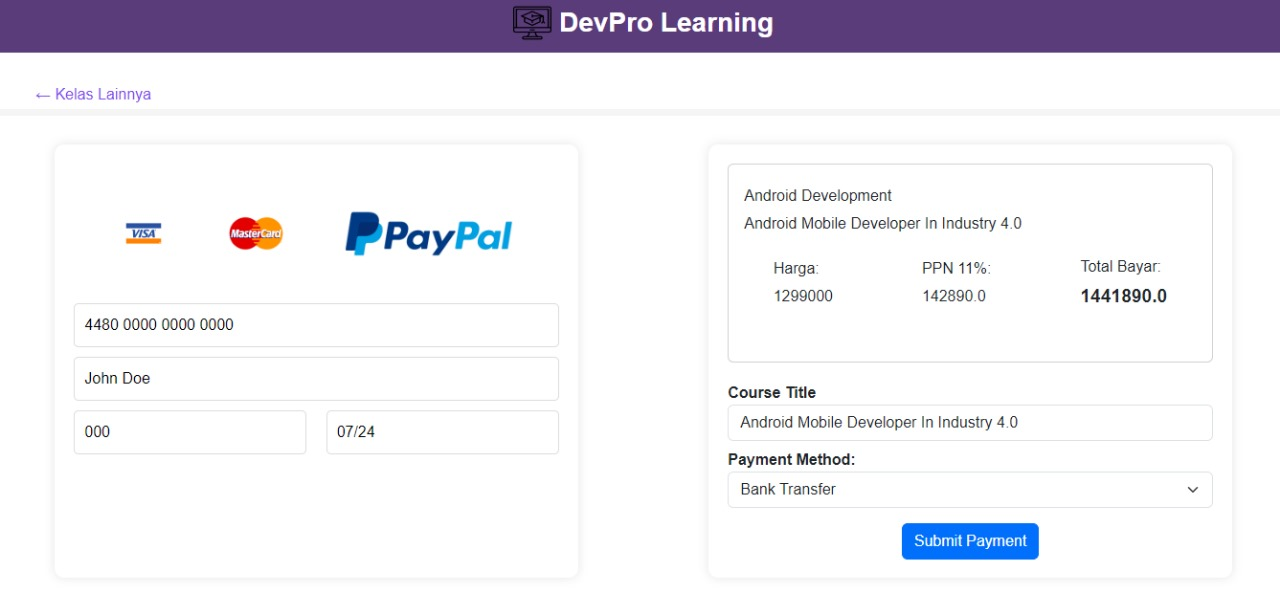
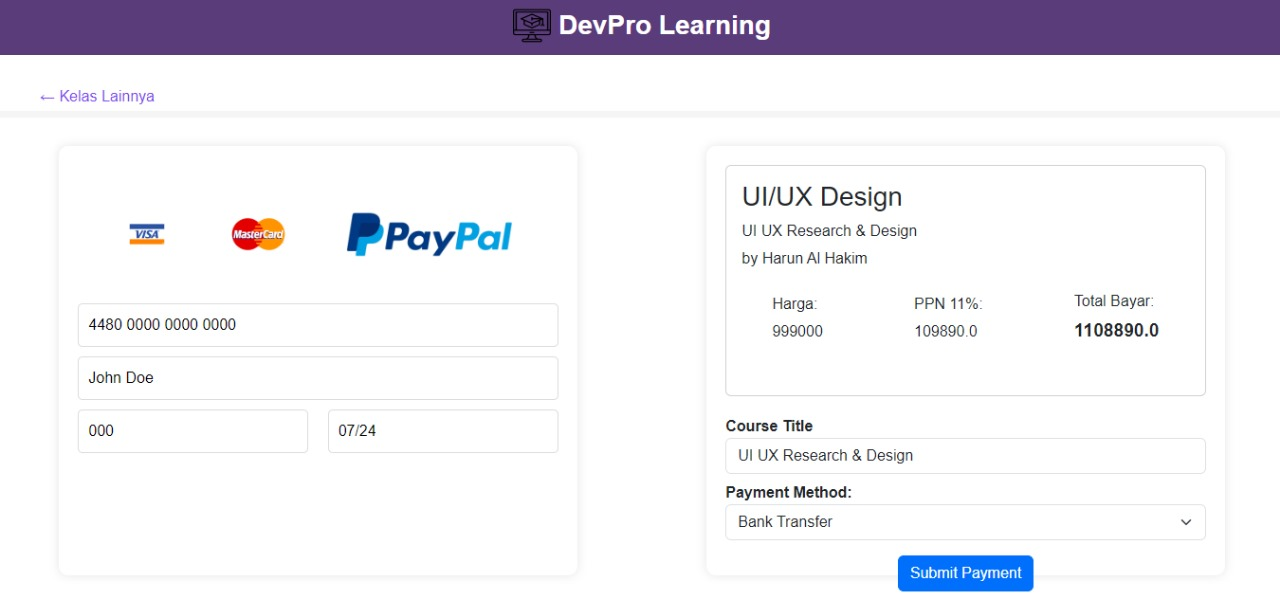
Add forgot password

diff --git a/clientapp/src/main/resources/static/js/forgot-password.js b/clientapp/src/main/resources/static/js/forgot-password.js
@@ -1,0 +1,86 @@
+// Forgot Password
+$("#forgot-password").click(function (e) {
+	e.preventDefault();
+
+	let valueUsername = $("#username").val();
+	let valueNewPassword = $("#new-password").val();
+	let valueRepeatNewPassword = $("#repeat-new-password").val();
+
+	let validatePassword = validationsPassword(
+		valueNewPassword,
+		valueRepeatNewPassword
+	);
+	if (validatePassword !== "LFG!") {
+		Swal.fire({
+			position: "center",
+			icon: "error",
+			title: validatePassword,
+			showConfirmButton: false,
+			timer: 1500,
+		});
+	} else {
+		$.ajax({
+			type: "POST",
+			contentType: "application/json",
+			beforeSend: addCSRFToken(),
+			dataType: "JSON",
+			url: "http://localhost:8080/api/auth/forgot-password",
+			data: JSON.stringify({
+				username: valueUsername,
+				newPassword: valueNewPassword,
+				repeatNewPassword: valueRepeatNewPassword,
+			}),
+			success: function (response) {
+				Swal.fire({
+					position: "center",
+					icon: "success",
+					title: "Reset Password Successful!",
+					html: '<a href="/auth/login"><b>Log in here!</b></a>',
+					showConfirmButton: false,
+				});
+				$("#username").val("");
+				$("#new-password").val("");
+				$("#repeat-new-password").val("");
+			},
+			error: function (error) {
+				console.log(error);
+				Swal.fire({
+					position: "center",
+					icon: "error",
+					title: "Reset Password Failed!",
+					showConfirmButton: false,
+					timer: 1500,
+				});
+			},
+		});
+	}
+});
+
+// Validation Password
+function validationsPassword(newPassword, repeatNewPassword) {
+	if (newPassword === "" || repeatNewPassword === "") {
+		return "Password Must Not Blank!";
+	} else if (newPassword !== repeatNewPassword) {
+		return "The Passwords Do Not Match!";
+	} else {
+		return "LFG!";
+	}
+}
+
+function showNewPassword() {
+	let showPW = document.getElementById("new-password");
+	if (showPW.type === "password") {
+		showPW.type = "text";
+	} else {
+		showPW.type = "password";
+	}
+}
+
+function showRepeatNewPassword() {
+	let showPW = document.getElementById("repeat-new-password");
+	if (showPW.type === "password") {
+		showPW.type = "text";
+	} else {
+		showPW.type = "password";
+	}
+}

diff --git a/clientapp/src/main/resources/templates/pages/auth/forgot-password.html b/clientapp/src/main/resources/templates/pages/auth/forgot-password.html
@@ -1,0 +1,77 @@
+<!DOCTYPE html>
+<html
+	xmlns:layout="http://www.ultraq.net.nz/thymeleaf/layout"
+	layout:decorate="~{layout/auth}">
+	<head>
+		<meta charset="UTF-8" />
+		<meta name="viewport" content="width=device-width, initial-scale=1.0" />
+		<title>Forgot Password Page</title>
+	</head>
+	<body>
+		<div class="container" layout:fragment="content">
+			<div class="form-container">
+				<h2>Forgot Password</h2>
+				<form>
+					<label for="username">Username</label>
+					<input
+						type="text"
+						id="username"
+						name="username"
+						placeholder="Enter your username"
+						required />
+
+					<label for="new-password">New Password</label>
+					<input
+						type="password"
+						id="new-password"
+						name="new-password"
+						placeholder="Enter your new password"
+						required />
+
+					<div>
+						<input
+							class="mt-2 mb-2"
+							type="checkbox"
+							onclick="showNewPassword()" />
+						Show Password
+					</div>
+
+					<label for="repeat-new-password">Repeat New Password</label>
+					<input
+						type="password"
+						id="repeat-new-password"
+						name="repeat-new-password"
+						placeholder="Re-enter your new password"
+						required />
+
+					<div>
+						<input
+							class="mt-2 mb-2"
+							type="checkbox"
+							onclick="showRepeatNewPassword()" />
+						Show Password
+					</div>
+
+					<button type="button" id="forgot-password">Submit</button>
+				</form>
+				<p>
+					Remember your password? <a th:href="@{/auth/login}">Log in here!</a>
+				</p>
+			</div>
+			<div class="logo-container">
+				<img
+					class="d-inline-block align-text-top me-2"
+					th:src="@{/img/online-course.png}"
+					alt="Logo"
+					width="70"
+					height="70" />
+				<h1>DevPro Learning</h1>
+			</div>
+		</div>
+
+		<!-- JS -->
+		<div layout:fragment="script">
+			<script src="/js/forgot-password.js"></script>
+		</div>
+	</body>
+</html>

diff --git a/clientapp/src/main/resources/templates/pages/user/payment-page.html b/clientapp/src/main/resources/templates/pages/user/payment-page.html
@@ -80,10 +80,11 @@
 				<div class="payment-summary">
 					<div class="card category-card">
 						<div class="card-body">
-							<p>
+							<h3>
 								<span th:text="${order.category}"></span>
-							</p>
+							</h3>
 							<p><span th:text="${order.title}"></span></p>
+							<p><span th:text="'by ' + ${order.mentor}"></span></p>
 						</div>
 						<div class="subtotal">
 							<div class="total-detail">

diff --git a/clientapp/src/main/resources/templates/pages/auth/login.html b/clientapp/src/main/resources/templates/pages/auth/login.html
@@ -38,7 +38,9 @@
 						Show Password
 					</div>
 					<button type="submit">Log in</button>
-					<a href="#" class="forgot-password mt-2">Forgot Password?</a>
+					<a th:href="@{/auth/forgot-password}" class="forgot-password mt-2"
+						>Forgot Password?</a
+					>
 					<p class="register">
 						Don't have an account?
 						<a th:href="@{/auth/registration}">Sign up here!</a>

diff --git a/serverapp/src/main/java/org/metrodataacademy/finalproject/serverapp/services/impls/AuthServiceImpl.java b/serverapp/src/main/java/org/metrodataacademy/finalproject/serverapp/services/impls/AuthServiceImpl.java
@@ -1,10 +1,12 @@
 package org.metrodataacademy.finalproject.serverapp.services.impls;
 
 import lombok.extern.slf4j.Slf4j;
+import org.metrodataacademy.finalproject.serverapp.models.dtos.requests.ForgotPasswordRequest;
 import org.metrodataacademy.finalproject.serverapp.models.dtos.requests.LoginRequest;
 import org.metrodataacademy.finalproject.serverapp.models.dtos.requests.RegistrationRequest;
 import org.metrodataacademy.finalproject.serverapp.models.dtos.responses.LoginResponse;
 import org.metrodataacademy.finalproject.serverapp.models.dtos.responses.RegistrationResponse;
+import org.metrodataacademy.finalproject.serverapp.models.dtos.responses.UserResponse;
 import org.metrodataacademy.finalproject.serverapp.models.entities.Role;
 import org.metrodataacademy.finalproject.serverapp.models.entities.User;
 import org.metrodataacademy.finalproject.serverapp.repositories.RoleRepository;
@@ -112,6 +114,38 @@ public class AuthServiceImpl implements AuthService {
                     .email(users.getEmail())
                     .phone(users.getPhone())
                     .username(users.getUsername())
+                    .build();
+        } catch (Exception e) {
+            System.out.println("Error: " + e.getMessage());
+            throw e;
+        }
+    }
+
+    @Override
+    public UserResponse forgotPassword(ForgotPasswordRequest forgotPasswordRequest) {
+        try {
+            log.info("Trying to forgot password!");
+            User user = userRepository.findByUsername(forgotPasswordRequest.getUsername())
+                    .orElseThrow(() -> new ResponseStatusException(HttpStatus.NOT_FOUND, "User not found!"));
+
+            if (!forgotPasswordRequest.getNewPassword().equals(forgotPasswordRequest.getRepeatNewPassword())) {
+                throw new ResponseStatusException(HttpStatus.BAD_REQUEST, "Password not match!");
+            }
+
+            String encode = passwordEncoder.encode(forgotPasswordRequest.getNewPassword());
+            user.setPassword(encode);
+
+            userRepository.save(user);
+            log.info("Forgot password success!");
+
+            return UserResponse.builder()
+                    .id(user.getId())
+                    .name(user.getName())
+                    .email(user.getEmail())
+                    .phone(user.getPhone())
+                    .city(user.getCity())
+                    .country(user.getCountry())
+                    .username(user.getUsername())
                     .build();
         } catch (Exception e) {
             System.out.println("Error: " + e.getMessage());

diff --git a/serverapp/src/main/java/org/metrodataacademy/finalproject/serverapp/controllers/AuthController.java b/serverapp/src/main/java/org/metrodataacademy/finalproject/serverapp/controllers/AuthController.java
@@ -1,12 +1,10 @@
 package org.metrodataacademy.finalproject.serverapp.controllers;
 
 import io.swagger.v3.oas.annotations.Operation;
+import org.metrodataacademy.finalproject.serverapp.models.dtos.requests.ForgotPasswordRequest;
 import org.metrodataacademy.finalproject.serverapp.models.dtos.requests.LoginRequest;
 import org.metrodataacademy.finalproject.serverapp.models.dtos.requests.RegistrationRequest;
-import org.metrodataacademy.finalproject.serverapp.models.dtos.responses.CategoryResponse;
-import org.metrodataacademy.finalproject.serverapp.models.dtos.responses.CourseResponse;
-import org.metrodataacademy.finalproject.serverapp.models.dtos.responses.LoginResponse;
-import org.metrodataacademy.finalproject.serverapp.models.dtos.responses.RegistrationResponse;
+import org.metrodataacademy.finalproject.serverapp.models.dtos.responses.*;
 import org.metrodataacademy.finalproject.serverapp.services.AuthService;
 import org.metrodataacademy.finalproject.serverapp.services.CategoryService;
 import org.metrodataacademy.finalproject.serverapp.services.CourseService;
@@ -48,6 +46,14 @@ public class AuthController {
     )
     public ResponseEntity<LoginResponse> login(@Validated @RequestBody LoginRequest loginRequest) {
         return ResponseEntity.ok().body(authService.login(loginRequest));
+    }
+
+    @PostMapping(
+            path = "/auth/forgot-password",
+            produces = MediaType.APPLICATION_JSON_VALUE
+    )
+    public ResponseEntity<UserResponse> forgotPassword(@Validated @RequestBody ForgotPasswordRequest forgotPasswordRequest) {
+        return ResponseEntity.ok().body(authService.forgotPassword(forgotPasswordRequest));
     }
 
     @GetMapping(

diff --git a/serverapp/src/main/java/org/metrodataacademy/finalproject/serverapp/services/AuthService.java b/serverapp/src/main/java/org/metrodataacademy/finalproject/serverapp/services/AuthService.java
@@ -1,13 +1,17 @@
 package org.metrodataacademy.finalproject.serverapp.services;
 
+import org.metrodataacademy.finalproject.serverapp.models.dtos.requests.ForgotPasswordRequest;
 import org.metrodataacademy.finalproject.serverapp.models.dtos.requests.LoginRequest;
 import org.metrodataacademy.finalproject.serverapp.models.dtos.requests.RegistrationRequest;
 import org.metrodataacademy.finalproject.serverapp.models.dtos.responses.LoginResponse;
 import org.metrodataacademy.finalproject.serverapp.models.dtos.responses.RegistrationResponse;
+import org.metrodataacademy.finalproject.serverapp.models.dtos.responses.UserResponse;
 
 public interface AuthService {
 
     LoginResponse login(LoginRequest loginRequest);
 
     RegistrationResponse registration(RegistrationRequest registrationRequest);
+
+    UserResponse forgotPassword(ForgotPasswordRequest forgotPasswordRequest);
 }

diff --git a/serverapp/src/main/java/org/metrodataacademy/finalproject/serverapp/models/dtos/requests/ForgotPasswordRequest.java b/serverapp/src/main/java/org/metrodataacademy/finalproject/serverapp/models/dtos/requests/ForgotPasswordRequest.java
@@ -1,0 +1,22 @@
+package org.metrodataacademy.finalproject.serverapp.models.dtos.requests;
+
+import lombok.AllArgsConstructor;
+import lombok.Data;
+import lombok.NoArgsConstructor;
+
+import javax.validation.constraints.NotBlank;
+
+@Data
+@NoArgsConstructor
+@AllArgsConstructor
+public class ForgotPasswordRequest {
+
+    @NotBlank
+    private String username;
+
+    @NotBlank
+    private String newPassword;
+
+    @NotBlank
+    private String repeatNewPassword;
+}

diff --git a/clientapp/src/main/java/org/metrodataacademy/finalproject/clientapp/controllers/AuthController.java b/clientapp/src/main/java/org/metrodataacademy/finalproject/clientapp/controllers/AuthController.java
@@ -74,4 +74,12 @@ public class AuthController {
     public String registrationView() {
         return "pages/auth/registration";
     }
+
+    @GetMapping(
+        path = "/forgot-password",
+        produces = MediaType.APPLICATION_JSON_VALUE
+    )
+    public String forgotPasswordView() {
+        return "pages/auth/forgot-password";
+    }
 }

diff --git a/README.md b/README.md
@@ -41,38 +41,41 @@
 - Registration
   ![Gambar2](materials/img/image13.jpg)
 
-- Landing Page
-  ![Gambar3](materials/img/image1.png)
+- Forgot Password
+  ![Gambar3](materials/img/image14.jpg)
 
 - Landing Page
-  ![Gambar4](materials/img/image2.jpg)
+  ![Gambar4](materials/img/image1.png)
 
 - Landing Page
-  ![Gambar5](materials/img/image3.jpg)
+  ![Gambar5](materials/img/image2.jpg)
+
+- Landing Page
+  ![Gambar6](materials/img/image3.jpg)
 
 - Admin
-  ![Gambar6](materials/img/image4.jpg)
+  ![Gambar7](materials/img/image4.jpg)
 
 - Admin
-  ![Gambar7](materials/img/image5.jpg)
+  ![Gambar8](materials/img/image5.jpg)
 
 - Dashboard
-  ![Gambar8](materials/img/image6.jpg)
+  ![Gambar9](materials/img/image6.jpg)
 
 - My Course
-  ![Gambar9](materials/img/image7.jpg)
+  ![Gambar10](materials/img/image7.jpg)
 
 - Account Profile
-  ![Gambar10](materials/img/image8.jpg)
+  ![Gambar11](materials/img/image8.jpg)
 
 - Course Details
-  ![Gambar11](materials/img/image9.jpg)
+  ![Gambar12](materials/img/image9.jpg)
 
 - Payment
-  ![Gambar12](materials/img/image10.jpg)
+  ![Gambar13](materials/img/image10.jpg)
 
 - Watch Courses Video
-  ![Gambar13](materials/img/image11.jpg)
+  ![Gambar14](materials/img/image11.jpg)
 
 ---
 
